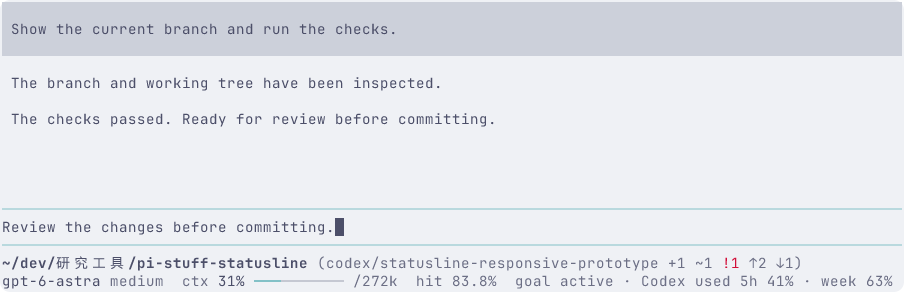
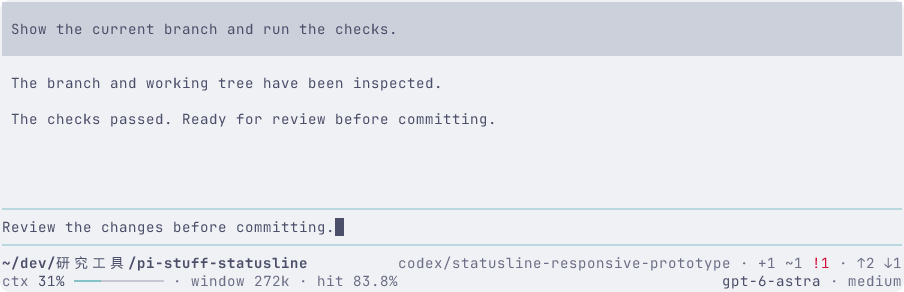
feat(prototype): anchor statusline fields on both edges

Changed region(s): [[0.0, 0.863, 1.0, 0.9863]]

diff --git a/prototypes/statusline/footer.ts b/prototypes/statusline/footer.ts
@@ -11,25 +11,42 @@ export interface FooterState {
   running: boolean;
 }
 
-interface Group {
-  priority: number;
+interface Field {
   text: string;
+  side: 'left' | 'right';
+  priority: number;
 }
 
-const joinGroups = (groups: string[]) => groups.filter(Boolean).join('  ');
-
-// Drop complete secondary groups, without backfilling gaps with small fields.
-function fit(prefix: string, groups: Group[], width: number): string {
-  const selected = [...groups];
-  const line = () => joinGroups([prefix, ...selected.map(group => group.text)]);
-  while (visibleWidth(line()) > width && selected.length > 0) {
-    const lowest = Math.min(...selected.map(group => group.priority));
+// Each zone uses dots; only the gap between left/right zones stretches.
+function row(width: number, fields: Field[], separator: string): string {
+  const selected = [...fields];
+  const zone = (side: Field['side']) =>
+    selected
+      .filter(field => field.side === side)
+      .map(field => field.text)
+      .join(separator);
+  const needed = () =>
+    visibleWidth(zone('left')) +
+    visibleWidth(zone('right')) +
+    (zone('left') && zone('right') ? 2 : 0);
+  while (
+    needed() > width &&
+    selected.some(field => Number.isFinite(field.priority))
+  ) {
+    const lowest = Math.min(...selected.map(field => field.priority));
     selected.splice(
-      selected.findIndex(group => group.priority === lowest),
+      selected.findIndex(field => field.priority === lowest),
       1,
     );
   }
-  return line();
+  const left = zone('left');
+  const right = zone('right');
+  if (!right) return left;
+  return (
+    left +
+    ' '.repeat(Math.max(0, width - visibleWidth(left) - visibleWidth(right))) +
+    right
+  );
 }
 
 export function renderFooter(
@@ -37,11 +54,7 @@ export function renderFooter(
   theme: Theme,
   state: FooterState,
 ): string[] {
-  const context = Math.min(100, 30 + state.completed);
-  const filled = Math.round(context / 10);
-  const meter =
-    theme.fg('thinkingMedium', '━'.repeat(filled)) +
-    theme.fg('borderMuted', '━'.repeat(10 - filled));
+  const separator = theme.fg('muted', ' · ');
   const project =
     state.scenario === 'long'
       ? '~/dev/研究工具/pi-stuff-statusline'
@@ -50,58 +63,86 @@ export function renderFooter(
     state.scenario === 'long'
       ? 'codex/statusline-responsive-prototype'
       : 'main';
-  const changes =
+  const worktree =
     state.scenario === 'base'
       ? theme.fg('muted', 'clean')
       : theme.fg('muted', '+1 ~1 ') +
         (state.scenario === 'long'
           ? theme.fg('error', '!1')
-          : theme.fg('muted', '?1')) +
-        theme.fg('muted', ' ↑2 ↓1');
-  const bracket = (text: string) =>
-    theme.fg('muted', '(') + text + theme.fg('muted', ')');
-  const branchText = theme.fg('muted', branch);
-  const git = bracket(`${branchText} ${changes}`);
-  const names = bracket(branchText);
-  const counts = bracket(changes);
-  const identitiesFit = visibleWidth(project) + 1 + visibleWidth(git) <= width;
-  const namesFit = visibleWidth(project) + 1 + visibleWidth(names) <= width;
-  const directoryWidth = namesFit
-    ? width
-    : Math.max(0, width - visibleWidth(changes) - 1);
-  const directory = theme.bold(truncateToWidth(project, directoryWidth, '…'));
-  const identity = truncateToWidth(
-    `${directory} ${identitiesFit ? git : namesFit ? names : changes}`,
-    width,
-    '…',
-  );
-  const gitOverflow = identitiesFit
-    ? ''
-    : namesFit
-      ? counts
-      : truncateToWidth(names, width, '…');
+          : theme.fg('muted', '?1'));
+  const divergence =
+    state.scenario === 'base' ? '' : theme.fg('muted', '↑2 ↓1');
+  const git = [theme.fg('muted', branch), worktree, divergence]
+    .filter(Boolean)
+    .join(separator);
+  const required = (text: string, side: Field['side']): Field => ({
+    text,
+    side,
+    priority: Infinity,
+  });
+  const first: Field[] = [];
+  const second: Field[] = [];
+  const identitiesFit = visibleWidth(project) + 2 + visibleWidth(git) <= width;
+  if (identitiesFit) {
+    first.push(required(theme.bold(project), 'left'), required(git, 'right'));
+  } else if (visibleWidth(project) + 2 + visibleWidth(branch) <= width) {
+    first.push(
+      required(theme.bold(project), 'left'),
+      required(theme.fg('muted', branch), 'right'),
+    );
+    second.push(
+      required([worktree, divergence].filter(Boolean).join(separator), 'left'),
+    );
+  } else {
+    const pathWidth = Math.max(0, width - visibleWidth(worktree) - 2);
+    first.push(
+      required(theme.bold(truncateToWidth(project, pathWidth, '…')), 'left'),
+      required(worktree, 'right'),
+    );
+    const branchWidth = Math.max(
+      0,
+      width - visibleWidth(divergence) - (divergence ? 2 : 0),
+    );
+    second.push(
+      required(
+        theme.fg('muted', truncateToWidth(branch, branchWidth, '…')),
+        'left',
+      ),
+    );
+    if (divergence) second.push(required(divergence, 'right'));
+  }
 
-  const model = `${state.model} ${theme.fg('muted', state.thinking)}`;
-  const cache = theme.fg('muted', 'hit 83.8%');
-  const contextCore = `${theme.fg('muted', 'ctx')} ${context}% ${meter}`;
-  const contextFull = `${contextCore} ${theme.fg('muted', '/272k')}`;
-  const contextText =
-    visibleWidth(joinGroups([gitOverflow, model, contextFull, cache])) <= width
-      ? contextFull
-      : contextCore;
-  const groups: Group[] = [
-    {priority: 80, text: model},
-    {priority: 90, text: contextText},
-    {priority: 100, text: cache},
-  ];
-  if (state.scenario !== 'base' && identitiesFit) {
-    groups.push({
-      priority: 10,
+  const context = Math.min(100, 30 + state.completed);
+  const filled = Math.round(context / 10);
+  const meter =
+    theme.fg('thinkingMedium', '━'.repeat(filled)) +
+    theme.fg('borderMuted', '━'.repeat(10 - filled));
+  // A compact viewport omits capacity as a whole field, never shortens the meter.
+  second.push(
+    {
+      text: `${theme.fg('muted', 'ctx')} ${context}% ${meter}`,
+      side: 'left',
+      priority: 90,
+    },
+    {text: theme.fg('muted', 'window 272k'), side: 'left', priority: 20},
+    {text: theme.fg('muted', 'hit 83.8%'), side: 'left', priority: 100},
+  );
+  if (identitiesFit && state.scenario !== 'base') {
+    second.push({
       text: theme.fg(
         'muted',
-        `goal ${state.running ? 'running' : 'active'} · Codex used 5h 41% · week 63%`,
+        `goal ${state.running ? 'running' : 'active'} · codex used 5h 41% · week 63%`,
       ),
+      side: 'left',
+      priority: 10,
     });
   }
-  return [identity, fit(gitOverflow, groups, width)];
+  // If the branch occupies the second row, it owns that row's right-hand budget too.
+  if (second.every(field => field.side !== 'right')) {
+    second.push(
+      {text: state.model, side: 'right', priority: 80},
+      {text: theme.fg('muted', state.thinking), side: 'right', priority: 30},
+    );
+  }
+  return [row(width, first, separator), row(width, second, separator)];
 }

diff --git a/prototypes/statusline/capture.ts b/prototypes/statusline/capture.ts
@@ -23,13 +23,17 @@ async function capture(session: Session, name: string): Promise<string> {
       const lines = snapshot.text.split('\n');
       const start = lines.findIndex(line => line.startsWith('~/dev/'));
       const runtime = lines[start + 1] ?? '';
-      // Resized old frames can end in a partial meter as well as a partial extension.
-      const completeTail =
-        runtime.trimEnd().endsWith('hit 83.8%') ||
-        runtime
-          .trimEnd()
-          .endsWith('goal active · Codex used 5h 41% · week 63%');
-      return start >= 0 && completeTail;
+      // A resized old frame must not masquerade as a newly right-aligned row.
+      const completeTail = /(?:medium|gpt-6-astra|↓1)$/u.test(
+        runtime.trimEnd(),
+      );
+      return (
+        start >= 0 &&
+        completeTail &&
+        lines
+          .slice(start, start + 2)
+          .every(line => visibleWidth(line.trimEnd()) === snapshot.frame.cols)
+      );
     },
     {timeoutMs: 5000},
   );
@@ -46,7 +50,7 @@ async function capture(session: Session, name: string): Promise<string> {
   assert.equal(footer.length, 2);
   assert.doesNotMatch(
     footer[0] ?? '',
-    /goal|Codex|ctx|hit/u,
+    /goal|codex used|ctx|hit/u,
     'Repository row stays focused',
   );
   assert.doesNotMatch(
@@ -54,18 +58,30 @@ async function capture(session: Session, name: string): Promise<string> {
     /R620k|W8k|est \$|openai-codex|auto/u,
     'Routine detail fields do not return at wider widths',
   );
-  if (footer.join(' ').includes('goal') || footer.join(' ').includes('Codex')) {
+  if (
+    footer.join(' ').includes('goal') ||
+    footer.join(' ').includes('codex used')
+  ) {
     assert.ok(
-      footer[1]?.includes('goal active · Codex used 5h 41% · week 63%'),
+      footer[1]?.includes('goal active · codex used 5h 41% · week 63%'),
       'Extension group must be complete, not a clipped resize frame',
     );
   }
   for (const line of footer) {
-    assert.ok(visibleWidth(line) <= snapshot.frame.cols);
+    assert.equal(
+      visibleWidth(line),
+      snapshot.frame.cols,
+      'Right-hand fields reach the right edge',
+    );
     assert.doesNotMatch(
       line,
-      / {3}|\|/u,
-      'Group gaps stay bounded; no alignment padding',
+      /[A-Z]|\||^ · | · $|·  |  ·/u,
+      'Lowercase sample labels and clean dot separators',
+    );
+    assert.equal(
+      line.split(/ {2,}/u).length,
+      2,
+      'Exactly one elastic gap separates the two zones',
     );
     if (line.includes('ctx')) assert.match(line, /ctx 31% ━{10}/u);
   }
@@ -158,7 +174,7 @@ await runEffect(async () => {
                     : '~/dev/pi-stuff',
                 ),
               );
-              if (scenario === 'base') assert.match(footer, /main clean/u);
+              if (scenario === 'base') assert.match(footer, /main · clean/u);
               else {
                 assert.ok(
                   footer.includes(
@@ -170,11 +186,16 @@ await runEffect(async () => {
                 );
                 assert.ok(
                   footer.includes(
-                    scenario === 'long' ? '+1 ~1 !1 ↑2 ↓1' : '+1 ~1 ?1 ↑2 ↓1',
+                    scenario === 'long' ? '+1 ~1 !1' : '+1 ~1 ?1',
                   ),
-                  'All nonzero Git states survive every tested width',
+                  'All working-tree counters survive every tested width',
                 );
               }
+              if (scenario !== 'base')
+                assert.ok(
+                  footer.includes('↑2 ↓1'),
+                  'Both divergence counters survive',
+                );
               if (scenario !== 'long' || cols >= 100) {
                 assert.match(footer, /hit 83\.8%/u);
                 assert.match(footer, /ctx 31% ━{10}/u);

diff --git a/prototypes/statusline/README.md b/prototypes/statusline/README.md
@@ -23,23 +23,30 @@ bun run tui stop pi-statusline
 
 中文: 在原型 worktree 中执行上述命令. 省略 `PI_TEST_HOST` 后使用安装的 Pi 0.85.1 CLI; 暗色主题选 `catppuccin-mocha`. `base` 是干净分支, `extended` 加入改动、goal 和额度, `long` 包含长分支、中文目录与冲突. 原生编辑器支持输入、Enter 提交、Esc 取消约两秒的样例回复. 成功回复增加统计. 缩放时调整前台终端本身; 已运行的实例可以用 `/reload` 载入修改.
 
-## Layout and Git notation
+## Layout and extension placement
 
-Row one is only repository identity: a bold full directory and a parenthesized Git group. Ordinary Git counters are neutral; only conflicts use an error color. Row two has three primary groups: model/effort, context and cache hit. Two spaces separate groups; within each group there is one space. There is no right alignment or viewport-filling padding.
+The footer uses two rows with left and right anchors:
 
-The previous always-visible input/output totals, cache-read/write counters, subscription cost estimate, provider and auto-compaction indicator were removed from this layout study. They competed with the three primary signals. Extra width no longer brings them back. This prototype adds no hidden details panel or new shortcut; native Pi behavior outside the footer is unchanged.
+| Row    | Left zone                                                 | Right zone                                     |
+| ------ | --------------------------------------------------------- | ---------------------------------------------- |
+| First  | Full directory                                            | Branch, working-tree counts, commit divergence |
+| Second | Context, optional capacity, cache hit, third-party status | Model, thinking effort                         |
 
-Goal and quota remain one secondary group on row two in the extended scenarios. The entire group yields before primary information and is suppressed when Git spans both rows. Secondary groups disappear in priority order, without smaller fields filling the gaps. Context capacity is retained only when the complete primary row fits; at 50 columns the ordinary sample still retains model/effort, the fixed ten-character continuous meter and hit.
+Adjacent fields in each zone use `·`. One elastic gap separates the two zones and puts their outer fields against the terminal edges. Compound values such as `+1 ~1 ?1` remain one Git field with ordinary internal spaces. No alignment padding appears within a zone. Authored labels are lowercase, including `codex`; actual directory, branch, model and external values retain their original casing.
 
-Git samples distinguish `clean`, `+1` staged, `~1` modified, `?1` untracked, `!1` conflicted, `↑2` ahead and `↓1` behind. Zero counts are omitted. These are file counts and commit divergence, not line-change counts. The fixtures do not cover every Git operation, such as rebase or detached HEAD.
+Third-party statuses have one place: after the core statistics in the lower-left zone. The goal/quota sample is an optional atomic group. It never takes over the Git or model anchors and is hidden first when space runs out. A future integration can pass additional complete status fields into this zone; this prototype does not add an extension API or poll real providers.
 
-When the full Git group exceeds row one, counters move to row two before runtime groups. If directory and branch cannot fit together, row one holds the directory/counters and row two starts with the full branch. All tested 50–150-column cases retain full sample identities and every nonzero Git counter. Physically oversized individual names use an ellipsis; the prototype does not add a third row or an overflow count.
+After extension status, capacity and thinking effort yield before model/context/hit. Fields disappear whole, without abbreviations or smaller-field backfill. At 50 columns, the ordinary sample retains directory, complete Git state, context meter, hit and the model; thinking effort and capacity are hidden. The meter remains ten continuous characters.
 
-中文: 第一行只放仓库身份: 加粗完整目录和括号内的 Git 组. 普通 Git 计数统一中性色, 只有冲突使用错误色. 第二行以模型/强度、ctx、cache hit 三组为主. 组间两个空格, 组内一个空格, 不右对齐或填满终端宽度.
+For long identities, directory and branch retain separate left/right anchors on row one when possible, moving working-tree/divergence fields to row two. If the names themselves cannot share a row, row one becomes directory/worktree and row two becomes branch/divergence. At 50 columns this long sample hides runtime metrics entirely so all identity and Git state survives. Individual names beyond the physical viewport use an ellipsis; there is no third row or overflow counter.
 
-中文: 取消常驻 input/output 总量、缓存读写明细、订阅费用估算、provider 和 auto 标记, 避免它们与主要信息争夺注意力. 宽屏不会再把这些字段加回来. 原型不新增详情面板或快捷键, footer 之外仍使用原生 Pi 行为. 扩展场景中的 goal/额度合为第二行的一个次要组, 比主要信息更早整组隐藏; Git 占两行时不显示扩展组. 按优先级删除整组, 不用小字段填空. ctx 容量只在主要信息全部放得下时显示; 普通 50 列仍保留模型/强度、固定十字符连续进度条和 hit.
+Ordinary Git states use neutral text; only conflicts use an error color. `clean` means no changes, `+1` staged, `~1` modified, `?1` untracked, `!1` conflicted, `↑2` ahead and `↓1` behind. Values are file counts and commit divergence, not changed-line counts. The fixtures do not cover every operation such as rebase or detached HEAD. Routine token/cache-read-write details, costs, provider and auto labels remain absent from this reduced layout.
 
-中文: Git 中 `clean` 表示干净, `+1` 暂存、`~1` 修改、`?1` 未跟踪、`!1` 冲突、`↑2` 领先、`↓1` 落后. 零值省略, 数值分别是文件数和提交数, 不是代码行数. 样例不覆盖 rebase、detached HEAD 等所有 Git 操作. Git 组放不下第一行时, 计数移至第二行运行信息之前. 目录和分支也放不下时, 第一行保留目录/计数, 第二行以完整分支开头. 测试的 50–150 列内保留完整样例身份与所有非零计数; 名称本身超过物理空间才显示省略号, 不加第三行或溢出计数.
+中文: Footer 固定双行、左右分区. 第一行左侧完整目录, 右侧分支、工作区计数与提交领先/落后. 第二行左侧 ctx、可选容量、hit及第三方状态, 右侧模型与思考强度. 同一区域内相邻字段用 `·` 分隔, 两个区域之间仅一个弹性间隙, 区域内部不填充空白. `+1 ~1 ?1` 等复合计数仍是一个 Git 字段, 内部使用普通空格. 自定义标签全部小写, 包括 `codex`; 实际目录、分支、模型和外部值保留原始大小写.
+
+中文: 第三方字段固定接在左下核心统计之后. goal/额度样例是一个可选整体, 不占用 Git 或模型的锚点, 窄屏时最先隐藏. 未来接入可在此区域加入完整状态字段, 本原型不增加扩展 API 或真实数据读取. 接着隐藏容量和思考强度, 然后才是模型/ctx/hit. 不简写、不零碎回填. 普通 50 列保留目录、完整 Git、连续十字符进度条、hit和模型, 隐藏容量与思考强度.
+
+中文: 长身份优先在第一行左右保留目录与分支, 把工作区/提交计数移到第二行. 两个名称也放不下时, 第一行变为左目录/右工作区计数, 第二行为左分支/右领先落后. 该长样例在 50 列隐藏全部运行统计, 保住完整身份和 Git 状态. 单项名称超过物理宽度才使用省略号, 不加第三行或溢出计数. 普通 Git 状态为中性色, 冲突使用错误色. `clean` 为干净, `+1` 暂存、`~1` 修改、`?1` 未跟踪、`!1` 冲突、`↑2` 领先、`↓1` 落后; 数字是文件数与提交数, 不是代码行数. 样例未覆盖 rebase/detached HEAD 等所有操作. token/缓存读写明细、费用、provider和auto继续不常驻.
 
 ## Evidence and limits
 
@@ -48,7 +55,7 @@ The PNGs are actual headless Terminal Control captures at 150/100/80/50 columns 
 ![Light, extended, 150 columns](captures/catppuccin-latte-extended-150.png)
 ![Dark, long directory and branch, 50 columns](captures/catppuccin-mocha-long-50.png)
 
-The one-shot driver covers each theme/scenario at 150 → 100 → 80 → 50 → 150, then editing, submit, cancellation and resubmit. Assertions check two rows, full sample identities and Git states at every width, continuous meter and hit when space allows, bounded group spacing, whole extension groups, absence of removed details and restoration. The driver waits for a complete optional group or its disappearance after resize, then captures a stable frame; partial goal/quota tails fail verification. See [verification.txt](captures/verification.txt).
+The one-shot driver covers each theme/scenario at 150 → 100 → 80 → 50 → 150, then editing, submit, cancellation and resubmit. Assertions check two rows, full sample identities and Git states at every width, continuous meter and hit when space allows, left/right alignment, dot separators, lowercase sample labels, whole extension groups, absence of removed details and restoration. The driver waits for both right anchors and a complete runtime-row tail after resize, then captures a stable frame. It rejects partial extension values. See [verification.txt](captures/verification.txt).
 
 ```sh
 PI_TEST_HOST=/opt/bin/pi bun prototypes/statusline/capture.ts /tmp/pi-statusline-captures
@@ -58,7 +65,7 @@ git diff --check
 
 Environment: Bun 1.4.0, compiled Pi 0.87.1, Terminal Control 1.2.1, repository API declarations at Pi 0.85.1. Temporary settings/sessions are cleaned up. The local provider and all displayed directory/Git/account/usage data are deterministic samples; no Git status, account quota, real model request or check command is executed. The native editor, message rendering, streaming, cancellation and resize are real Pi behavior. The provider uses Pi's [documented extension API](https://github.com/earendil-works/pi/blob/v0.85.1/packages/coding-agent/docs/custom-provider.md).
 
-中文: PNG 来自真实无头 Terminal Control, 包含完整 16 行终端视口, 覆盖明暗主题和 150/100/80/50 列, 字体栈见上. 它们不是裁剪的设计图或原生 Ghostty/合成器截图. 一次性驱动验证各场景的缩窄与恢复、编辑、提交、取消和再次提交, 检查双行、完整目录/分支/Git 计数、可容纳时的连续进度条/hit、有限组间距、扩展组整体显隐、无已移除明细及恢复结果. 缩放后等待可选组完整出现或消失再抓稳定帧, 截断的 goal/额度尾巴会导致验证失败. 复现命令及版本见上. 临时设置/会话会清理. 所有目录、Git、账号与用量均为确定样例, 不查询真实状态、不调用模型或检查命令; 编辑器、消息、流式输出、取消和缩放使用原生 Pi.
+中文: PNG 来自真实无头 Terminal Control, 包含完整 16 行终端视口, 覆盖明暗主题和 150/100/80/50 列, 字体栈见上. 它们不是裁剪的设计图或原生 Ghostty/合成器截图. 一次性驱动验证各场景的缩窄与恢复、编辑、提交、取消和再次提交, 检查双行、完整目录/分支/Git 计数、可容纳时的连续进度条/hit、左右对齐、圆点分隔、小写样例标签、扩展组整体显隐、无已移除明细及恢复结果. 缩放后等待两个右侧锚点和完整行尾再抓稳定帧, 截断的扩展组会导致验证失败. 复现命令及版本见上. 临时设置/会话会清理. 所有目录、Git、账号与用量均为确定样例, 不查询真实状态、不调用模型或检查命令; 编辑器、消息、流式输出、取消和缩放使用原生 Pi.
 
 ## Tracking
 
